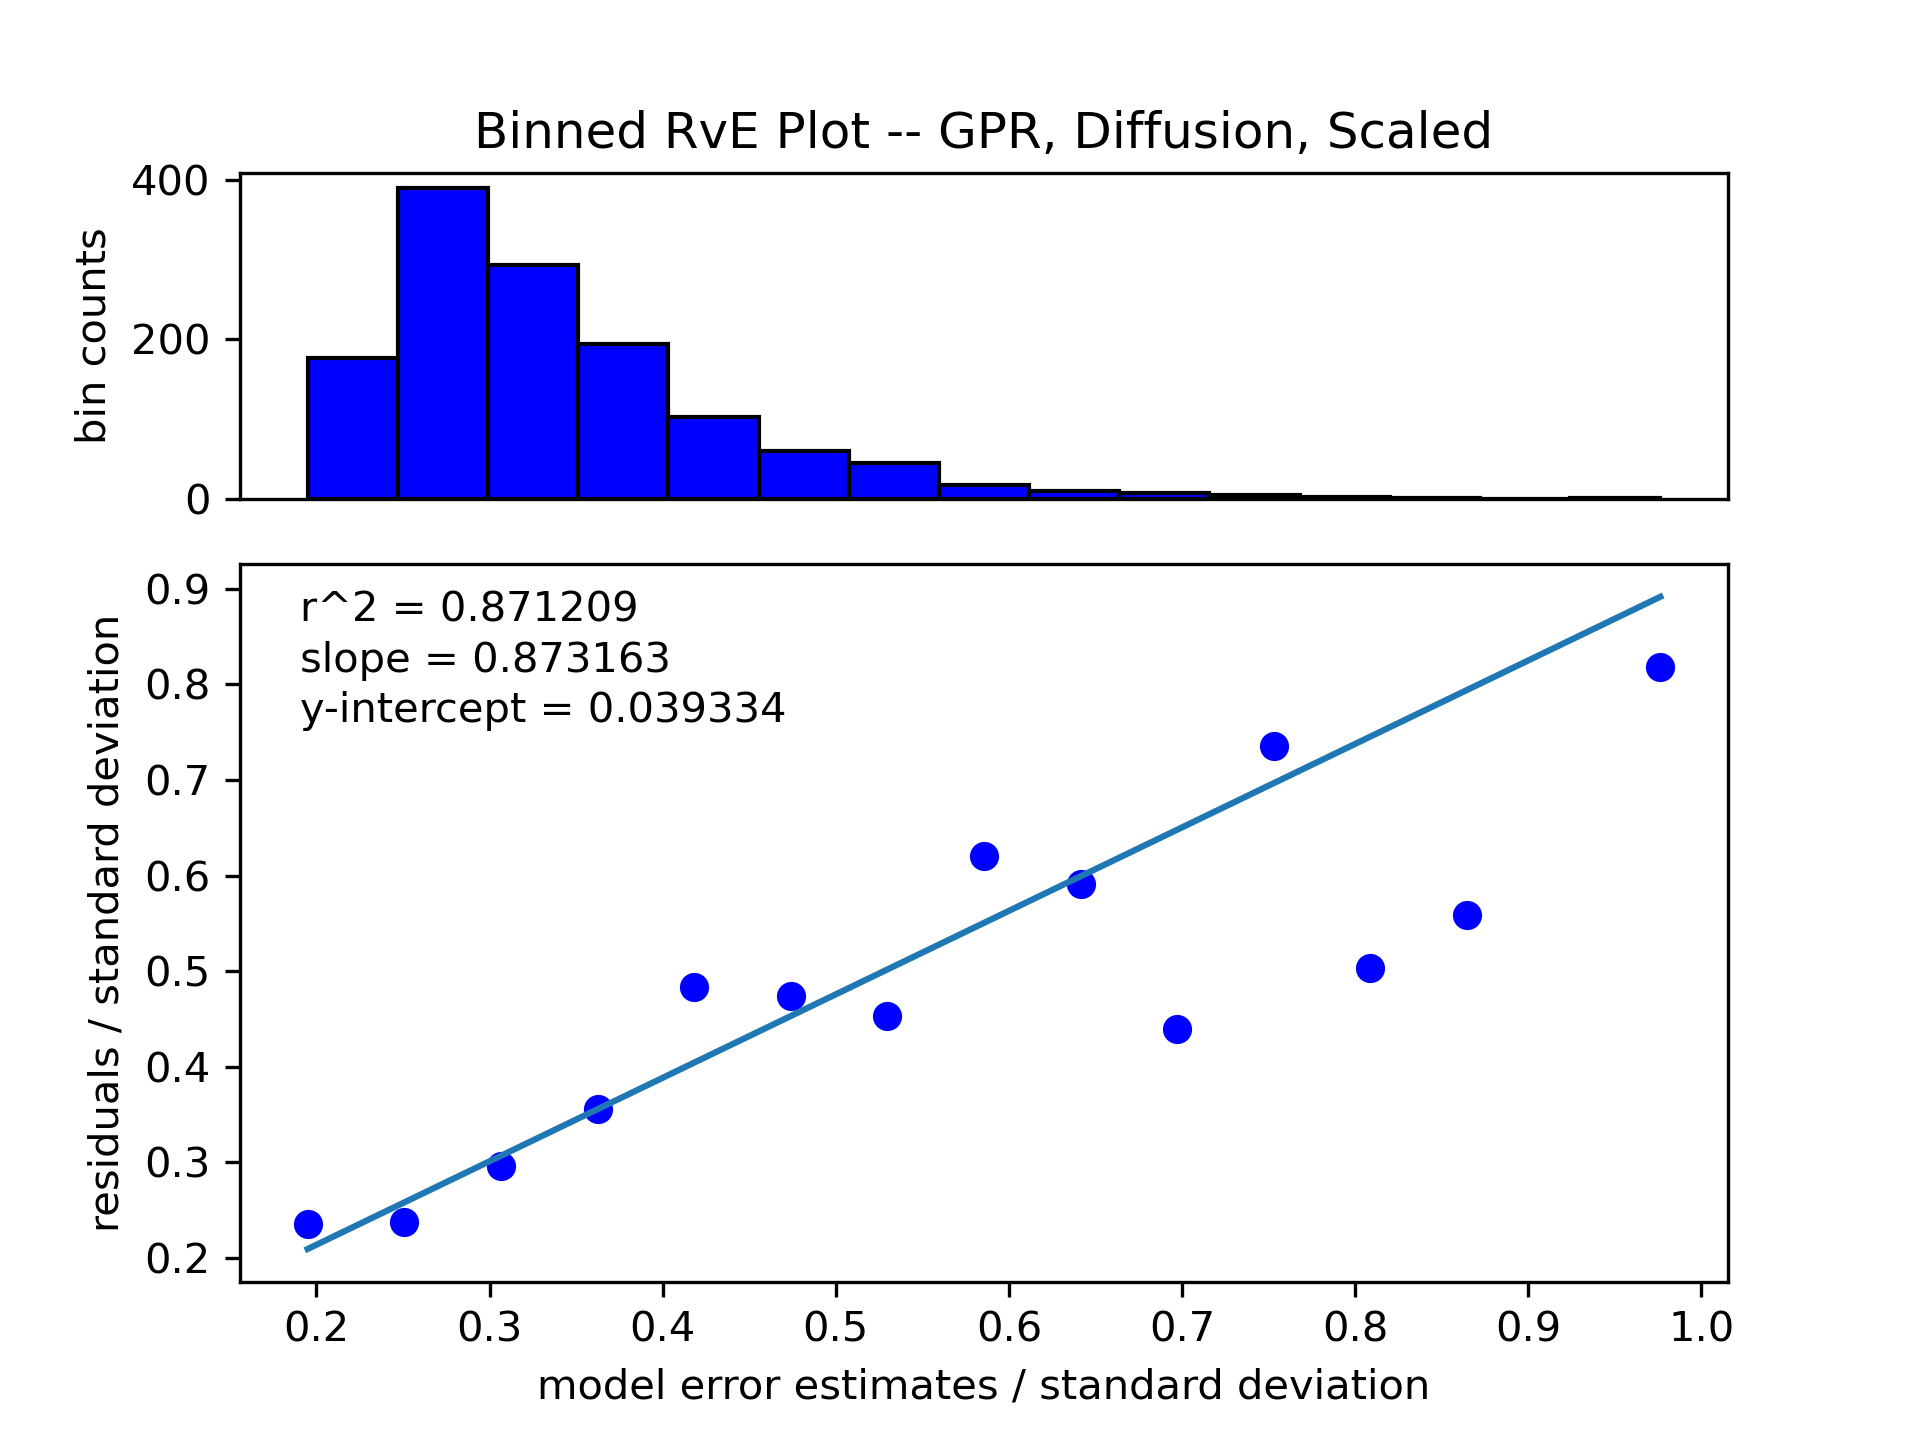
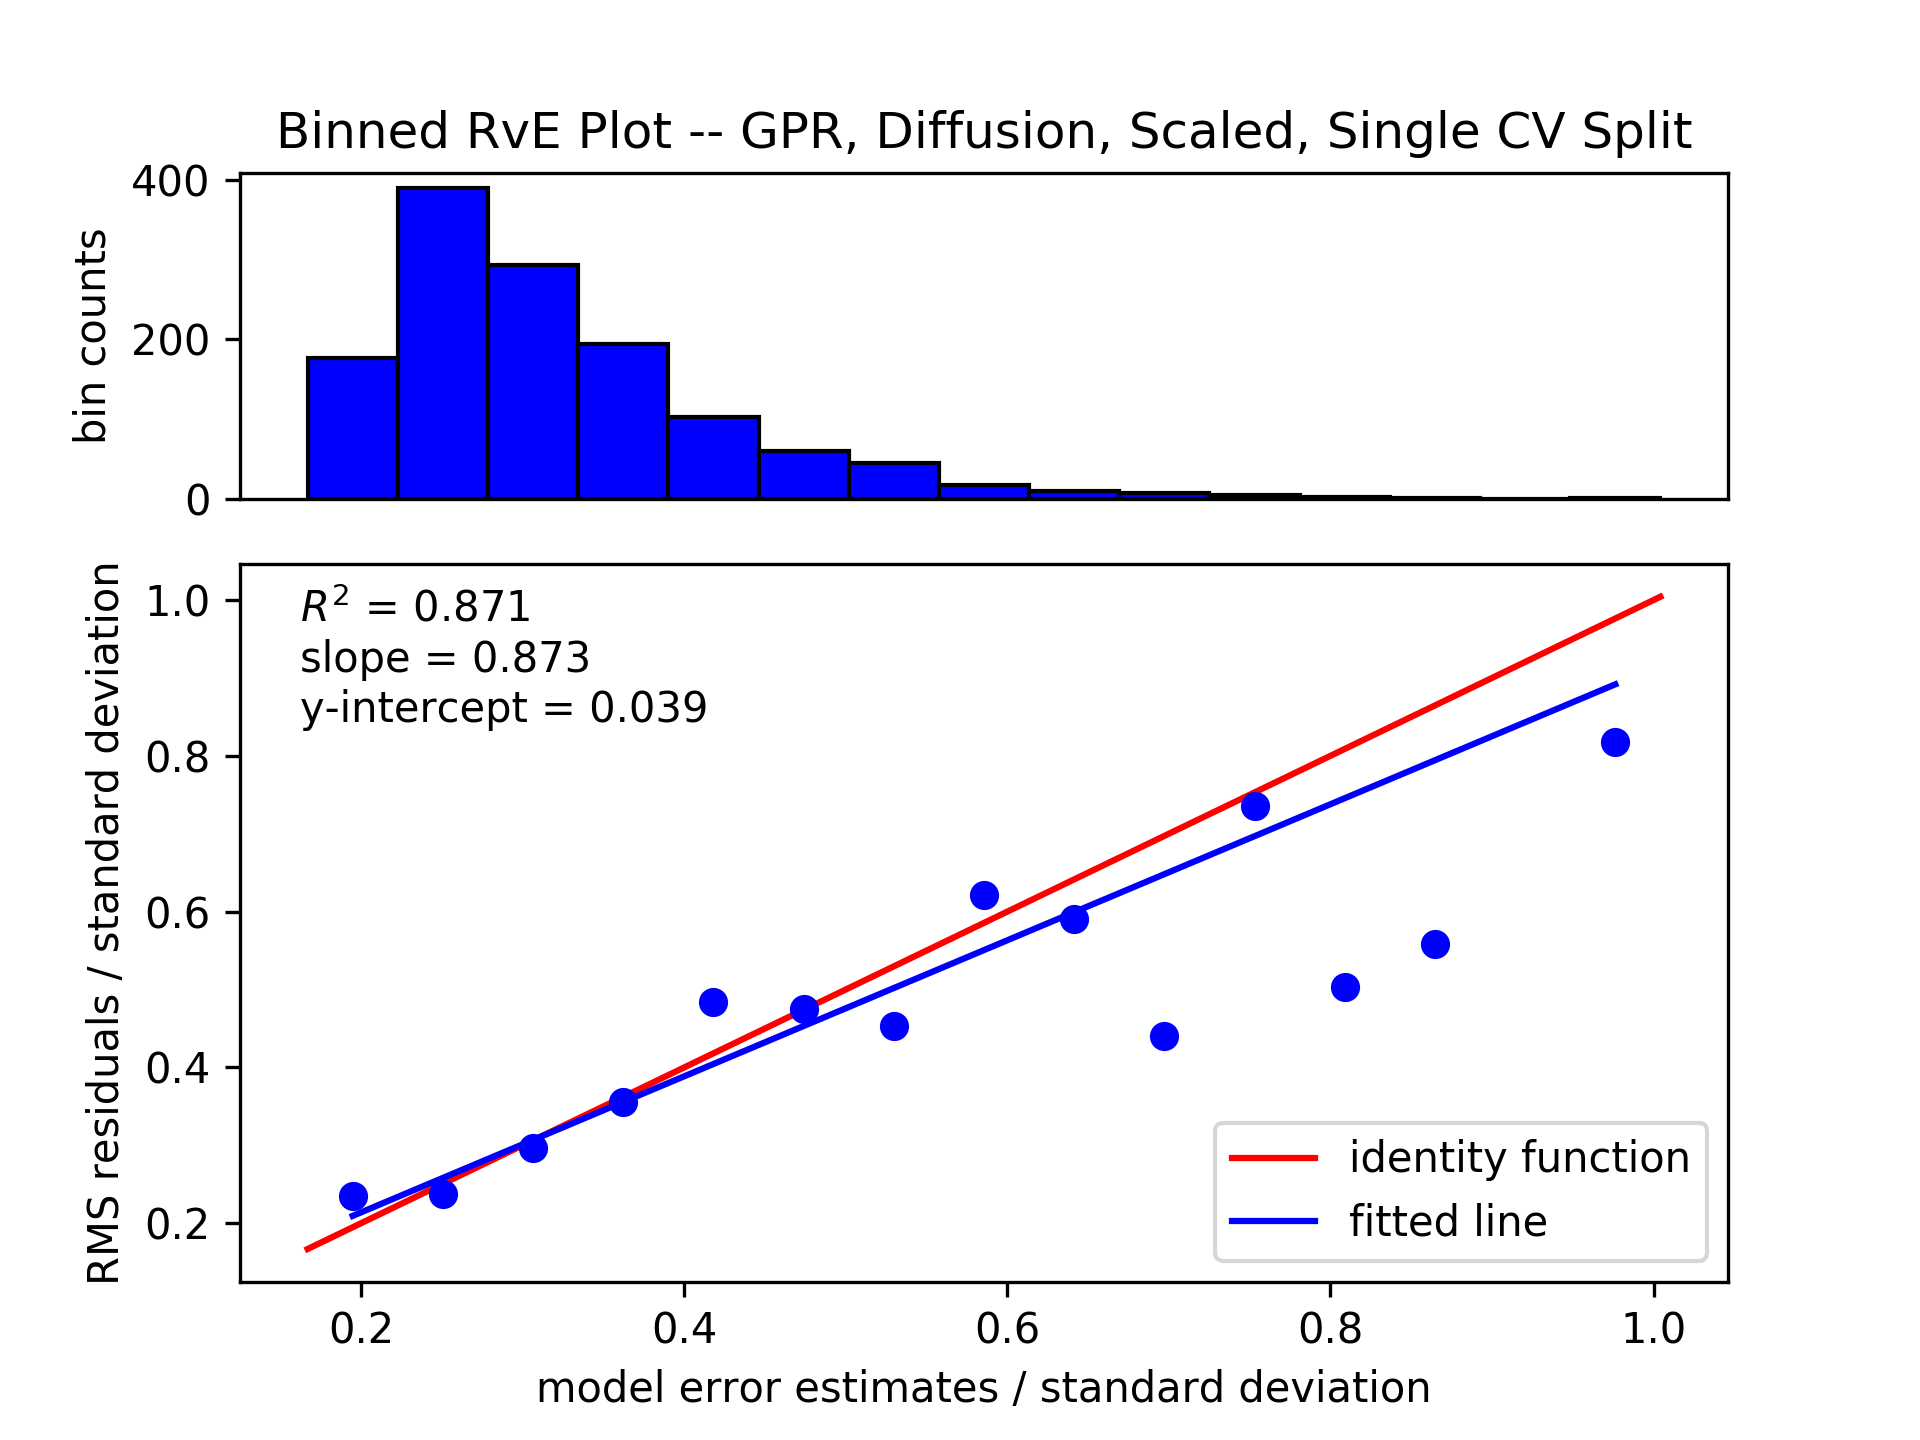
updating a few scripts for plotting

diff --git a/package/MakePlot.py b/package/MakePlot.py
@@ -356,3 +356,214 @@ class MakePlot:
                 plt.savefig(file_name, dpi=300)
         plt.close(fig)
         return model_errors, abs_res, r_squared, slope, intercept, binned_model_errors, RMS_abs_res, xfit, yfit
+
+    def make_rstat_overlay(self, residuals, unscaled_model_errors, scaled_model_errors, title, save=False, file_name=None):
+        # Eliminate model errors with value 0, so that the ratios can be calculated
+        zero_indices = []
+        for i in range(0, len(unscaled_model_errors)):
+            if unscaled_model_errors[i] == 0:
+                zero_indices.append(i)
+        unscaled_residuals = np.delete(residuals, zero_indices)
+        unscaled_model_errors = np.delete(unscaled_model_errors, zero_indices)
+        print("{} values deleted before making r-stat plot because unscaled model errors were zero.".format(len(zero_indices)))
+        scaled_zero_indices = []
+        for i in range(0, len(scaled_model_errors)):
+            if scaled_model_errors[i] == 0:
+                scaled_zero_indices.append(i)
+        scaled_residuals = np.delete(residuals, scaled_zero_indices)
+        scaled_model_errors = np.delete(scaled_model_errors, scaled_zero_indices)
+        print("{} values deleted before making r-stat plot because scaled model errors were zero.".format(len(zero_indices)))
+        # make data for gaussian plot
+        gaussian_x = np.linspace(-5, 5, 1000)
+        # create plot
+        fig = plt.figure()
+        ax = fig.add_subplot(111)
+        ax.set_title('r-statistic distribution -- {}'.format(title))
+        ax.set_xlabel('residuals / model error estimates')
+        ax.set_ylabel('relative counts')
+        ax.hist(unscaled_residuals / unscaled_model_errors, bins=30, color='grey', edgecolor='black', density=True, alpha=0.5, label='uncalibrated')
+        ax.hist(scaled_residuals / scaled_model_errors, bins=30, color='blue', edgecolor='black', density=True, alpha=0.5, label='calibrated')
+        ax.plot(gaussian_x, stats.norm.pdf(gaussian_x, 0, 1), label='standard normal pdf', color='orange')
+        ax.legend(loc="upper left")
+        #ax.text(0.05, 0.9, 'mean = %.3f' % (np.mean(residuals / model_errors)), transform=ax.transAxes)
+        #ax.text(0.05, 0.85, 'std = %.3f' % (np.std(residuals / model_errors)), transform=ax.transAxes)
+        if save is False:
+            plt.show()
+        elif save is True:
+            if file_name is None:
+                print("save is set to True, but no file path specified")
+            else:
+                plt.savefig(file_name, dpi=300)
+        plt.close(fig)
+        return 0
+
+    def make_rve_overlay(self, residuals, unscaled_model_errors, scaled_model_errors, title, save=False, file_name=None, number_of_bins=15):
+        # Define input data
+        abs_res = abs(residuals)
+
+        ####################### Unscaled #####################
+
+        # check to see if number of bins should increase, and increase it if so
+        unscaled_model_errors_sorted = np.sort(unscaled_model_errors)
+        unscaled_ninety_percentile = int(len(unscaled_model_errors_sorted) * 0.9)
+        unscaled_ninety_percentile_range = unscaled_model_errors_sorted[unscaled_ninety_percentile] - np.amin(unscaled_model_errors)
+        unscaled_total_range = np.amax(unscaled_model_errors) - np.amin(unscaled_model_errors)
+        unscaled_number_of_bins = number_of_bins
+        if unscaled_ninety_percentile_range / unscaled_total_range < 5 / unscaled_number_of_bins:
+            unscaled_number_of_bins = int(5 * unscaled_total_range / unscaled_ninety_percentile_range)
+
+        # Set bins for calculating RMS
+        unscaled_upperbound = np.amax(unscaled_model_errors)
+        unscaled_lowerbound = np.amin(unscaled_model_errors)
+        unscaled_bins = np.linspace(unscaled_lowerbound, unscaled_upperbound, unscaled_number_of_bins, endpoint=False)
+
+        # Create a vector determining bin of each data point
+        unscaled_digitized = np.digitize(unscaled_model_errors, unscaled_bins)
+
+        # Record which bins contain data (to avoid trying to do calculations on empty bins)
+        unscaled_bins_present = []
+        for i in range(1, unscaled_number_of_bins + 1):
+            if i in unscaled_digitized:
+                unscaled_bins_present.append(i)
+
+        # Create array of weights based on counts in each bin
+        unscaled_weights = []
+        for i in range(1, unscaled_number_of_bins + 1):
+            if i in unscaled_digitized:
+                unscaled_weights.append(np.count_nonzero(unscaled_digitized == i))
+
+        # Calculate RMS of the absolute residuals
+        unscaled_RMS_abs_res = [np.sqrt((abs_res[unscaled_digitized == unscaled_bins_present[i]] ** 2).mean()) for i in
+                       range(0, len(unscaled_bins_present))]
+
+        # Set the x-values to the midpoint of each bin
+        unscaled_bin_width = unscaled_bins[1] - unscaled_bins[0]
+        unscaled_binned_model_errors = np.zeros(len(unscaled_bins_present))
+        for i in range(0, len(unscaled_bins_present)):
+            unscaled_curr_bin = unscaled_bins_present[i]
+            unscaled_binned_model_errors[i] = unscaled_bins[unscaled_curr_bin - 1] + unscaled_bin_width / 2
+
+        # Fit a line to the data
+        unscaled_model = LinearRegression(fit_intercept=True)
+        unscaled_model.fit(unscaled_binned_model_errors[:, np.newaxis],
+                  unscaled_RMS_abs_res,
+                  sample_weight=unscaled_weights)  #### SELF: Can indicate subset of points to fit to using ":" --> "a:b"
+        unscaled_xfit = unscaled_binned_model_errors
+        unscaled_yfit = unscaled_model.predict(unscaled_xfit[:, np.newaxis])
+
+        # Calculate r^2 value
+        unscaled_r_squared = r2_score(unscaled_RMS_abs_res, unscaled_yfit, sample_weight=unscaled_weights)
+        # Calculate slope
+        unscaled_slope = unscaled_model.coef_
+        # Calculate y-intercept
+        unscaled_intercept = unscaled_model.intercept_
+
+        ####################### Scaled #####################
+
+        # check to see if number of bins should increase, and increase it if so
+        scaled_model_errors_sorted = np.sort(scaled_model_errors)
+        scaled_ninety_percentile = int(len(scaled_model_errors_sorted) * 0.9)
+        scaled_ninety_percentile_range = scaled_model_errors_sorted[scaled_ninety_percentile] - np.amin(scaled_model_errors)
+        scaled_total_range = np.amax(scaled_model_errors) - np.amin(scaled_model_errors)
+        scaled_number_of_bins = number_of_bins
+        if scaled_ninety_percentile_range / scaled_total_range < 5 / scaled_number_of_bins:
+            scaled_number_of_bins = int(5 * scaled_total_range / scaled_ninety_percentile_range)
+
+        # Set bins for calculating RMS
+        scaled_upperbound = np.amax(scaled_model_errors)
+        scaled_lowerbound = np.amin(scaled_model_errors)
+        scaled_bins = np.linspace(scaled_lowerbound, scaled_upperbound, scaled_number_of_bins, endpoint=False)
+
+        # Create a vector determining bin of each data point
+        scaled_digitized = np.digitize(scaled_model_errors, scaled_bins)
+
+        # Record which bins contain data (to avoid trying to do calculations on empty bins)
+        scaled_bins_present = []
+        for i in range(1, scaled_number_of_bins + 1):
+            if i in scaled_digitized:
+                scaled_bins_present.append(i)
+
+        # Create array of weights based on counts in each bin
+        scaled_weights = []
+        for i in range(1, scaled_number_of_bins + 1):
+            if i in scaled_digitized:
+                scaled_weights.append(np.count_nonzero(scaled_digitized == i))
+
+        # Calculate RMS of the absolute residuals
+        scaled_RMS_abs_res = [np.sqrt((abs_res[scaled_digitized == scaled_bins_present[i]] ** 2).mean()) for i in
+                       range(0, len(scaled_bins_present))]
+
+        # Set the x-values to the midpoint of each bin
+        scaled_bin_width = scaled_bins[1] - scaled_bins[0]
+        scaled_binned_model_errors = np.zeros(len(scaled_bins_present))
+        for i in range(0, len(scaled_bins_present)):
+            scaled_curr_bin = scaled_bins_present[i]
+            scaled_binned_model_errors[i] = scaled_bins[scaled_curr_bin - 1] + scaled_bin_width / 2
+
+        # Fit a line to the data
+        scaled_model = LinearRegression(fit_intercept=True)
+        scaled_model.fit(scaled_binned_model_errors[:, np.newaxis],
+                  scaled_RMS_abs_res,
+                  sample_weight=scaled_weights)  #### SELF: Can indicate subset of points to fit to using ":" --> "a:b"
+        scaled_xfit = scaled_binned_model_errors
+        scaled_yfit = scaled_model.predict(scaled_xfit[:, np.newaxis])
+
+        # Calculate r^2 value
+        scaled_r_squared = r2_score(scaled_RMS_abs_res, scaled_yfit, sample_weight=scaled_weights)
+        # Calculate slope
+        scaled_slope = scaled_model.coef_
+        # Calculate y-intercept
+        scaled_intercept = scaled_model.intercept_
+
+        ################# Making plot ##################
+
+        # define overall lower and upper bounds
+        lowerbound = min(unscaled_lowerbound, scaled_lowerbound)
+        upperbound = max(unscaled_upperbound, scaled_upperbound)
+
+        # Create RvE plot
+        fig = plt.figure()
+        ax = fig.add_subplot(3,1,(2,3))
+        x = np.linspace(lowerbound, upperbound, 100)
+        ax.plot(x, x, color='red', label='identity function')
+        #ax.set_title('Binned RvE Plot -- {}'.format(title))
+        ax.set_xlabel('model error estimates / standard deviation')
+        ax.set_ylabel('RMS residuals / standard deviation')
+        # unscaled stuff
+        ax.plot(unscaled_binned_model_errors, unscaled_RMS_abs_res, 'o', color='grey', alpha=0.5)
+        ax.plot(unscaled_xfit, unscaled_yfit, color='grey', label='fitted line (uncalibrated)', alpha=0.5)
+        #ax.text(0.04, 0.92, '$R^2$ = %.3f' % (r_squared), transform=ax.transAxes)
+        #ax.text(0.04, 0.85, 'slope = %.3f' % (slope), transform=ax.transAxes)
+        #ax.text(0.04, 0.78, 'y-intercept = %.3f' % (intercept), transform=ax.transAxes)
+        # scaled stuff
+        ax.plot(scaled_binned_model_errors, scaled_RMS_abs_res, 'o', color='blue')
+        ax.plot(scaled_xfit, scaled_yfit, color='blue', label='fitted line (calibrated)')
+        #ax.text(0.04, 0.92, '$R^2$ = %.3f' % (r_squared), transform=ax.transAxes)
+        #ax.text(0.04, 0.85, 'slope = %.3f' % (slope), transform=ax.transAxes)
+        #ax.text(0.04, 0.78, 'y-intercept = %.3f' % (intercept), transform=ax.transAxes)
+
+
+        ax.legend(loc="upper left")
+
+        ax = fig.add_subplot(3,1,1)
+        ax.set_title('Binned RvE Plot -- {}'.format(title))
+        #ax.set_xlabel('model error estimates / standard deviation')
+        ax.set_xticks([])
+        #ax_set_xticklabels([])
+        ax.set_ylabel('bin counts')
+        # unscaled
+        ax.hist(unscaled_model_errors, bins=unscaled_number_of_bins, color='grey', edgecolor='black', alpha=0.5, label='uncalibrated')
+        # scaled
+        ax.hist(scaled_model_errors, bins=scaled_number_of_bins, color='blue', edgecolor='black', alpha=0.5, label='calibrated')
+        ax.legend(loc="upper right")
+
+
+        if save is False:
+            plt.show()
+        elif save is True:
+            if file_name is None:
+                print("save is set to True, but no file path specified")
+            else:
+                plt.savefig(file_name, dpi=300)
+        plt.close(fig)
+        return unscaled_model_errors, abs_res, unscaled_r_squared, unscaled_slope, unscaled_intercept, unscaled_binned_model_errors, unscaled_RMS_abs_res, unscaled_xfit, unscaled_yfit, scaled_model_errors, abs_res, scaled_r_squared, scaled_slope, scaled_intercept, scaled_binned_model_errors, scaled_RMS_abs_res, scaled_xfit, scaled_yfit

diff --git a/make_overlay_rstat.py b/make_overlay_rstat.py
@@ -1,0 +1,28 @@
+from package import MakePlot as mp
+import numpy as np
+
+models = ["LR"]
+save_plot = False
+
+for model in models:
+    unscaled_model_errors = np.load('data_for_paper_plots/Friedman_500/{}/Test/Test_model_errors.npy'.format(model))
+    residuals = np.load('data_for_paper_plots/Friedman_500/{}/Test/Test_residuals.npy'.format(model))
+    a = np.load('data_for_paper_plots/Friedman_500/{}/Test/a.npy'.format(model))
+    b = np.load('data_for_paper_plots/Friedman_500/{}/Test/b.npy'.format(model))
+
+    scaled_model_errors = unscaled_model_errors * a[0] + b[0]
+
+    MP = mp.MakePlot()
+
+    #MP.make_rstat(residuals, model_errors, "{}, Friedman 500, Unscaled".format(model), save=save_plot, file_name='Supplemental_Info/Friedman_500/5-Fold/{}/Test_Plots/unscaled_rstat.png'.format(model))
+    #MP.make_rstat(residuals, scaled_model_errors, "{}, Friedman 500, Scaled".format(model), save=save_plot, file_name='Supplemental_Info/Friedman_500/5-Fold/{}/Test_Plots/scaled_rstat.png'.format(model))
+    #MP.make_rve_with_bin_counts_and_slope_1_line(residuals, model_errors, "{}, Friedman 500, Unscaled".format(model), save=save_plot, file_name='Supplemental_Info/Friedman_500/5-Fold/{}/Test_Plots/unscaled_RvE_with_counts.png'.format(model))
+    #MP.make_rve_with_bin_counts_and_slope_1_line(residuals, scaled_model_errors, "{}, Friedman 500, Scaled".format(model), save=save_plot, file_name='Supplemental_Info/Friedman_500/5-Fold/{}/Test_Plots/scaled_RvE_with_counts.png'.format(model))
+
+    MP.make_rstat_overlay(residuals, unscaled_model_errors, scaled_model_errors, "{}, Friedman 500".format(model), save=save_plot,
+                  file_name='Supplemental_Info/Friedman_500/5-Fold/{}/Test_Plots/rstat_overlay.png'.format(model))
+
+    MP.make_rve_overlay(residuals, unscaled_model_errors, scaled_model_errors, "{}, Friedman 500".format(model),
+                                                 save=save_plot,
+                                                 file_name='Supplemental_Info/Friedman_500/5-Fold/{}/Test_Plots/RvE_overlay.png'.format(
+                                                     model))

diff --git a/package/generate_synthetic_data_with_noise.py b/package/generate_synthetic_data_with_noise.py
@@ -1,0 +1,30 @@
+import numpy as np
+
+# Define training data size
+training_num = 500
+# Define noise scale factor
+scale = 0.1
+# Load friedman no-noise training set
+y_train = np.load('friedman_500_data/training_y_values.npy')
+# Load friedman no-noise test set
+y_test = np.load('friedman_500_data/test_y_values_hypercube.npy')
+
+# Define standard deviation of training data
+standard_deviation = np.std(y_train)
+
+#generate noise
+mu = 0
+sigma = standard_deviation * scale
+y_noise_train = np.random.normal(mu, sigma, len(y_train))
+y_noise_test = np.random.normal(mu, sigma, len(y_test))
+
+print(np.mean(y_noise_train))
+print(np.std(y_noise_train))
+print(np.std(y_train))
+
+# add noise to y-values
+y_train = y_train + y_noise_train
+y_test = y_test + y_noise_test
+
+np.save('friedman_500_data/training_y_values_{}_noise.npy'.format(scale), y_train)
+np.save('friedman_500_data/test_y_values_{}_noise.npy'.format(scale), y_test)

diff --git a/make_realdata_cv_plot_from_data.py b/make_realdata_cv_plot_from_data.py
@@ -2,8 +2,8 @@ import matplotlib
 from package import MakePlot as mp
 import numpy as np
 
-models = ["GPR_Bayesian", "RF", "LR"]
-dataset = "Perovskite"
+models = ["GPR"]
+dataset = "Diffusion"
 save_plot = True
 
 for model in models:

diff --git a/make_realdata_test_plot_from_data.py b/make_realdata_test_plot_from_data.py
@@ -2,8 +2,8 @@ import matplotlib
 from package import MakePlot as mp
 import numpy as np
 
-models = ["GPR_Bayesian", "RF", "LR"]
-dataset = "Perovskite"
+models = ["GPR"]
+dataset = "Diffusion"
 save_plot = True
 
 for model in models:
